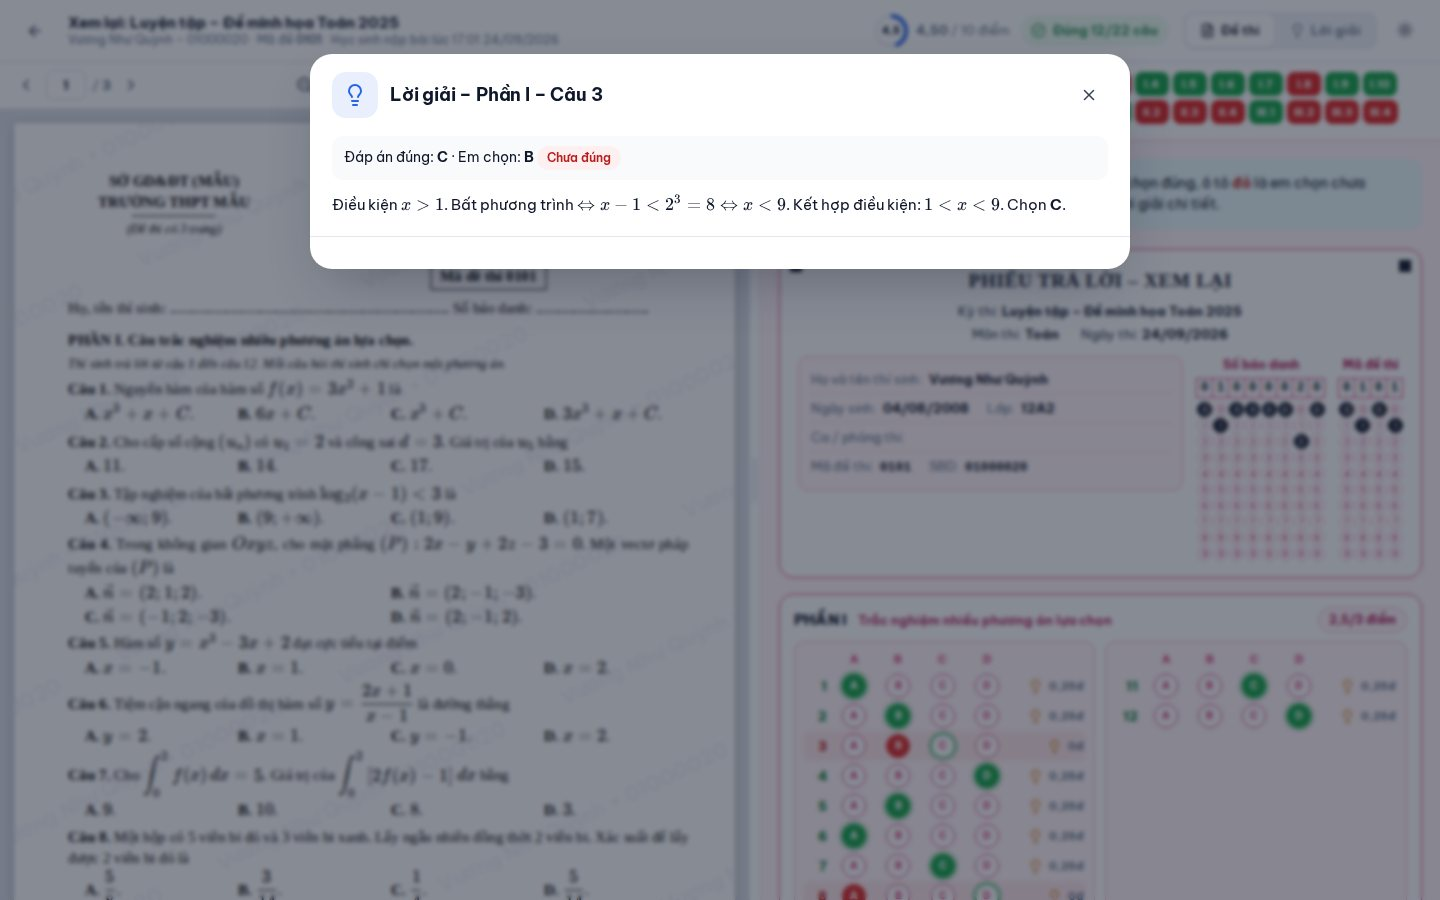
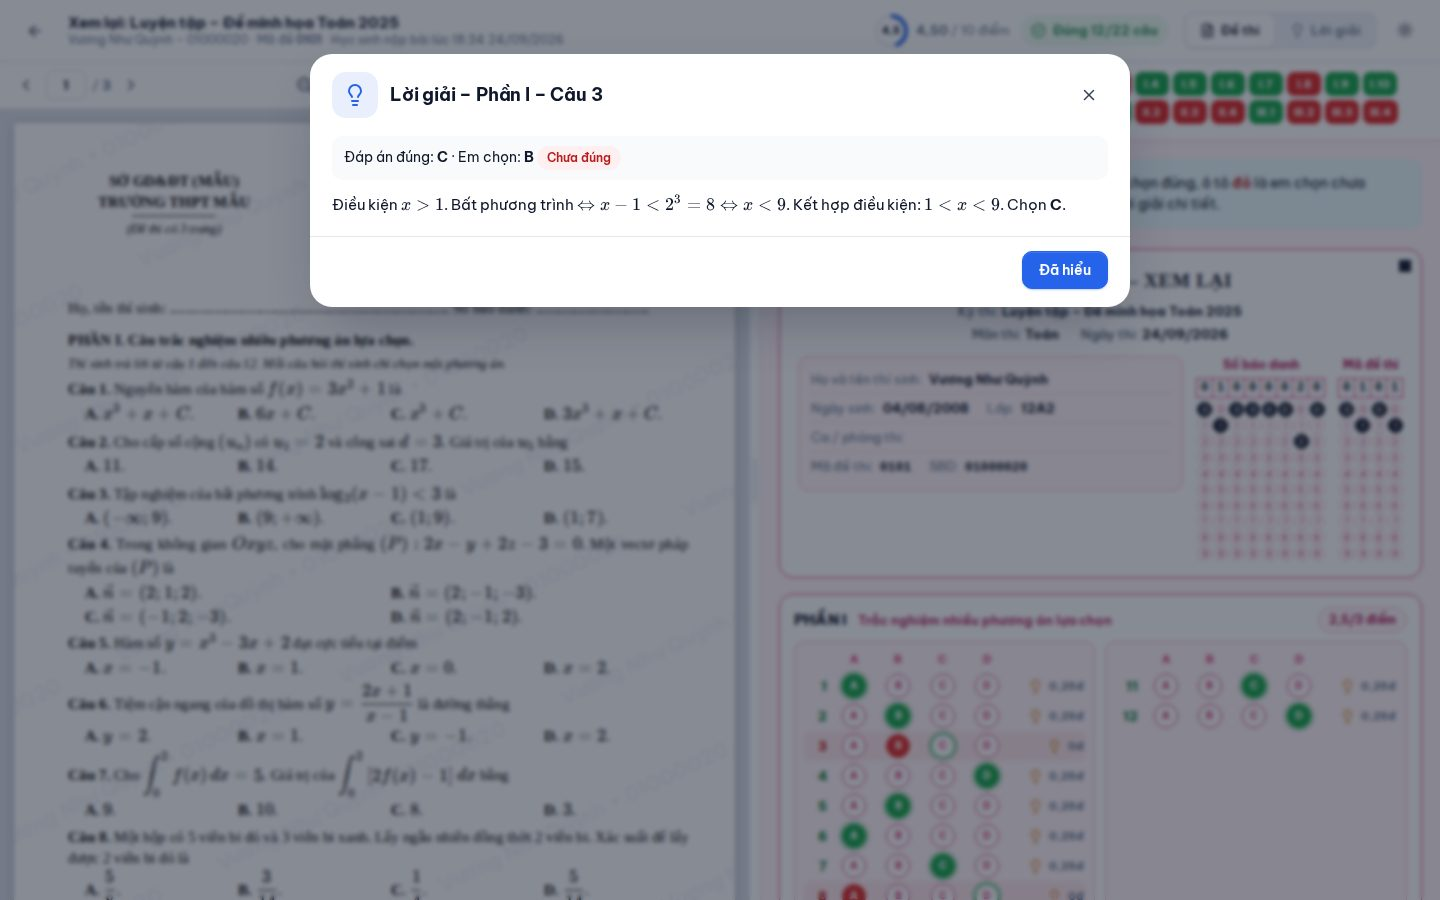
Hướng dẫn: mục riêng cho Phần II (đúng/sai) và Phần III (trả lời ngắn)
- Hướng dẫn sử dụng thêm 8.3 Phần II, 8.4 Phần III, 8.5 rà soát trước
  khi nộp: cách chọn / tô, gõ đáp số trực tiếp, bảng ví dụ cách tô,
  cảnh báo sai quy cách và cách sửa, cách tính điểm; cách đọc trang xem
  lại Phần II / III; giáo viên nhập đáp án Phần II / III trên phiếu (hủy
  ý, điểm riêng, nhiều đáp án); giao diện điện thoại
- 9 ảnh minh họa mới (26–34), chụp lại ảnh xem lại bài (nút "Đã hiểu")
- Trang xem lại: câu Phần III tô sai quy cách không còn hiện lặp hai lần
  cùng một cảnh báo

Claude-Session: https://claude.ai/code/session_01H6Zpit82RpkdLWLAgn9fiX

Changed region(s): [[0.2188, 0.28, 0.7812, 0.3422]]

diff --git a/assets/css/exam.css b/assets/css/exam.css
@@ -232,6 +232,8 @@
 .p3-key { width: 100%; height: 36px; border: 1.5px solid var(--s-line); border-radius: 9px; text-align: center; font: 800 16px var(--mono); background: var(--s-paper); color: var(--text); }
 .p3-key:focus { outline: none; border-color: var(--primary); box-shadow: var(--ring); }
 .p3-key-show { margin-top: 6px; font-size: 12px; text-align: center; }
+/* Xem lại: lý do sai quy cách đã ghi ở dòng "Đáp án: … · …" nên không nhắc lại */
+.sheet-review .p3-msg { display: none; }
 
 /* Tự luận */
 .es-q { border: 1px solid var(--s-line-soft); border-radius: 10px; padding: 10px 12px; background: var(--s-bg); margin-bottom: 10px; }

diff --git a/docs/HUONG-DAN-SU-DUNG.md b/docs/HUONG-DAN-SU-DUNG.md
@@ -13,6 +13,9 @@
 6. [Tạo ca thi](#6-tạo-ca-thi)
 7. [Giám sát trong giờ thi & xử lý sự cố](#7-giám-sát-trong-giờ-thi--xử-lý-sự-cố)
 8. [Dành cho học sinh: làm bài thi](#8-dành-cho-học-sinh-làm-bài-thi)
+   - [Phần II – Trắc nghiệm đúng / sai](#83-phần-ii--trắc-nghiệm-đúng--sai)
+   - [Phần III – Trắc nghiệm trả lời ngắn](#84-phần-iii--trắc-nghiệm-trả-lời-ngắn)
+   - [Trước khi nộp: rà soát Phần II & III](#85-trước-khi-nộp-rà-soát-phần-ii--iii)
 9. [Kết quả, chấm tự luận, in phiếu, xuất Excel](#9-kết-quả-chấm-tự-luận-in-phiếu-xuất-excel)
 10. [Thống kê & phân tích câu hỏi](#10-thống-kê--phân-tích-câu-hỏi)
 11. [Cài đặt hệ thống, thông báo](#11-cài-đặt-hệ-thống-thông-báo)
@@ -142,6 +145,17 @@ Tùy chọn chung: **làm tròn** (0,01 / 0,05 / 0,1 / 0,25 / 0,5 / 1), **không
 
 **Cách 1 – Soạn trực tiếp**: bấm **Đề & đáp án** ở mã đề → màn hình 2 cột (đề PDF | phiếu) → bấm ô tròn để chọn đáp án đúng. Biểu tượng ✏ ở mỗi câu để nhập **lời giải chi tiết, điểm riêng, mức độ, chủ đề, câu gốc** hoặc **hủy câu**. Nút **Nhập nhanh** cho phép gõ `ABCDBACDABCD` cho cả Phần I. Phím tắt `Ctrl + S` để lưu.
 
+Với **Phần II** và **Phần III** trên màn hình soạn đáp án:
+
+| Phần | Cách nhập đáp án trên phiếu | Trong ô ✏ của từng câu |
+|---|---|---|
+| **II** – đúng/sai | Bấm ô **Đúng** / **Sai** cho đủ 4 ý a–d (thiếu ý nào thì câu đó coi như chưa có đáp án) | Ô *Đáp án* gõ 4 ký tự `DSDD`; dấu `*` ở vị trí nào là **hủy ý** đó (vd `DS*D` – ý c tính đúng cho mọi em); *điểm riêng* của câu (bảng 0,1/0,25/0,5/1 được nhân theo tỉ lệ); hủy cả câu; mức độ, chủ đề, lời giải |
+| **III** – trả lời ngắn | Gõ đáp số vào ô của câu (`-1,5`, `0.17` tự đổi thành `0,17`); nhiều đáp án chấp nhận: `1,5\|1,50` | Điểm riêng, **hủy câu**, mức độ, chủ đề, lời giải |
+
+![Soạn đáp án Phần II](images/32-phan-2-nhap-dap-an.jpg)
+
+![Soạn đáp án Phần III](images/33-phan-3-nhap-dap-an.jpg)
+
 **Cách 2 – Excel** ([mẫu](samples/mau-dap-an-toan.xlsx)). Hệ thống tự nhận dạng 3 kiểu bảng:
 
 | Kiểu | Hình dạng | Ví dụ |
@@ -245,8 +259,8 @@ flowchart TD
 | Thao tác | Cách làm |
 |---|---|
 | Chọn đáp án Phần I | Bấm ô tròn A/B/C/D (bấm lại để bỏ). Bàn phím: `A` `B` `C` `D` hoặc `1`–`4`, `↑` `↓` chuyển câu |
-| Phần II | Mỗi ý a), b), c), d) chọn **Đúng** hoặc **Sai** |
-| Phần III | Tô từ trái sang phải: dấu `−` chỉ ở cột đầu, dấu phẩy ở cột 2 hoặc 3; hoặc **bấm vào dãy ô kết quả để gõ** (ví dụ `-1,5`). Tô sai quy cách sẽ có cảnh báo đỏ |
+| Phần II | Mỗi ý a), b), c), d) chọn **Đúng** hoặc **Sai** – chi tiết ở [mục 8.3](#83-phần-ii--trắc-nghiệm-đúng--sai) |
+| Phần III | Tô từ trái sang phải: dấu `−` chỉ ở cột đầu, dấu phẩy ở cột 2 hoặc 3; hoặc **bấm vào dãy ô kết quả để gõ** (ví dụ `-1,5`). Tô sai quy cách sẽ có cảnh báo đỏ – chi tiết ở [mục 8.4](#84-phần-iii--trắc-nghiệm-trả-lời-ngắn) |
 | Đánh dấu xem lại | Biểu tượng 🚩 hoặc phím `F`; lọc *Chưa làm* / 🚩 ở đầu phiếu |
 | Đổi độ rộng 2 cột | Kéo thanh chia giữa (phím `←` `→`), bấm đúp để về mặc định, nút `«` `»` để thu gọn |
 | Phóng to đề | `Ctrl` + lăn chuột trên đề, hoặc chọn tỉ lệ; nút 🌙 đọc nền tối |
@@ -259,7 +273,93 @@ Trên **điện thoại / máy tính bảng**, đề và phiếu chuyển thành
 
 ![Điện thoại](images/07-phong-thi-dien-thoai.jpg)
 
-### 8.3. Khi có sự cố – em cần nhớ
+### 8.3. Phần II – Trắc nghiệm đúng / sai
+
+![Phần II khi làm bài: câu 1 đủ 4 ý, câu 2 mới chọn 2 ý, câu 3 có đánh dấu, câu 4 chưa làm](images/26-phan-2-lam-bai.jpg)
+
+Mỗi câu gồm **4 ý a), b), c), d)**; mỗi ý có 2 ô **Đúng** và **Sai** – bố cục giống phiếu trả lời của Bộ.
+
+| Tính năng | Cách dùng / ý nghĩa |
+|---|---|
+| Chọn đáp án | Bấm ô *Đúng* hoặc *Sai* ở từng ý. Bấm ô còn lại để đổi; bấm lại ô đang chọn để **bỏ chọn**. Làm ý nào trước cũng được |
+| Lưu tự động | Mỗi lần bấm đều được lưu (góc trên hiện *Đã lưu*) |
+| Câu chưa đủ 4 ý | Có **dấu chấm cam** sau số câu (*Câu 2 ·* trong ảnh); ô **II.2** trên thanh số câu chuyển **màu cam** và được đếm vào bộ lọc *Chưa làm* |
+| Đánh dấu xem lại | Biểu tượng cờ ở góc câu (hoặc phím `F` khi đang chọn câu) – khung câu viền cam (*Câu 3* trong ảnh) |
+| Bộ đếm của phần | Góc phải tiêu đề: số câu đã làm / tổng số câu (vd `3/4`) |
+
+![Thanh số câu phía trên phiếu](images/28-thanh-so-cau.jpg)
+
+*Thanh số câu phía trên phiếu: xanh = đã làm, **cam** = câu đúng/sai chưa đủ 4 ý, gạch cam dưới ô = có đánh dấu, trắng = chưa làm. Bấm vào một ô để nhảy tới câu đó; nút* Chưa làm *và* 🚩 *để lọc.*
+
+**Cách tính điểm theo quy định 2025** – dựa trên **số ý đúng** trong mỗi câu:
+
+| Số ý đúng trong câu | 0 | 1 | 2 | 3 | 4 |
+|---|:---:|:---:|:---:|:---:|:---:|
+| Điểm | 0 | 0,1 | 0,25 | 0,5 | **1** |
+
+> **Ví dụ:** đáp án `ĐSĐĐ`; em chọn a) Đúng, b) Đúng, c) Đúng, d) bỏ trống → đúng ý a và c (2 ý) → **0,25 điểm**. Ý bỏ trống không bao giờ được tính đúng, vì vậy hãy chọn **đủ cả 4 ý**.
+
+Giáo viên có thể đổi cách tính Phần II (*theo từng ý* hoặc *chỉ cho điểm khi đúng cả 4 ý*), đặt điểm riêng cho một câu, hoặc **hủy một ý** – ý đó được tính đúng cho mọi thí sinh (xem [mục 4](#4-môn-thi--định-dạng-đề) và [mục 5.2](#52-nhập-đáp-án)).
+
+### 8.4. Phần III – Trắc nghiệm trả lời ngắn
+
+![Phần III khi làm bài: tô 4, −1,5, 0,17; câu 3 tô sai quy cách; câu 4 đang gõ trực tiếp](images/27-phan-3-lam-bai.jpg)
+
+Mỗi câu có **dãy 4 ô kết quả** (hiện đáp số đang tô) và **lưới ô tròn 4 cột** giống phiếu của Bộ:
+
+| Hàng ô tròn | Tô ở cột | Ý nghĩa |
+|---|---|---|
+| `−` | chỉ cột 1 | dấu âm |
+| `,` | cột 2 hoặc cột 3 | dấu phẩy thập phân |
+| `0` … `9` | cả 4 cột | chữ số |
+
+**Hai cách ghi đáp số:**
+
+1. **Tô ô tròn** – mỗi cột một ký tự, **tô từ trái sang phải**, các cột thừa bên phải để trống. Bấm lại ô đang tô để bỏ. Tô dấu phẩy ở cột khác thì dấu phẩy cũ tự bỏ (mỗi đáp số chỉ có một dấu phẩy).
+2. **Gõ trực tiếp** – bấm vào dãy ô kết quả (hoặc dùng `Tab` tới câu rồi gõ số) → hiện ô nhập (*Câu 4* trong ảnh) → gõ `-1,5`; gõ dấu chấm `.` cũng được, hệ thống tự đổi thành dấu phẩy → các ô tròn **tự tô theo**. Nhấn `Enter`, `Tab` hoặc bấm ra ngoài để xong. Ô nhập chỉ nhận chữ số, dấu `−`, dấu phẩy, tối đa 4 ký tự.
+
+**Ví dụ cách tô** (mỗi ô là một cột):
+
+| Đáp số | Cột 1 | Cột 2 | Cột 3 | Cột 4 |
+|---|:---:|:---:|:---:|:---:|
+| `4` | 4 | | | |
+| `12` | 1 | 2 | | |
+| `-2` | − | 2 | | |
+| `0,17` | 0 | , | 1 | 7 |
+| `-1,5` | − | 1 | , | 5 |
+| `2025` | 2 | 0 | 2 | 5 |
+| `0,5` (không tô `,5`) | 0 | , | 5 | |
+
+**Cảnh báo tô sai quy cách** – chữ đỏ hiện ngay dưới câu, dãy ô kết quả viền đỏ (*Câu 3* trong ảnh). Câu tô sai quy cách **không được tính điểm**, nên cần sửa trước khi nộp:
+
+| Thông báo | Nguyên nhân – cách sửa |
+|---|---|
+| Bỏ trống ô ở giữa – phải tô từ trái sang phải | Có cột trống xen giữa (vd tô `1`, bỏ trống, tô `5`) → dồn các ký tự sang trái |
+| Dấu "−" chỉ ở cột đầu tiên | Dấu âm đặt sau chữ số (khi gõ) → ghi dấu âm ở đầu |
+| Chỉ được tô một dấu phẩy | Có 2 dấu phẩy (khi gõ) → giữ một |
+| Dấu phẩy chỉ ở cột 2 hoặc 3 | Ví dụ gõ `,5` → ghi `0,5` |
+| Thiếu chữ số sau dấu phẩy | Ví dụ `5,` → bỏ dấu phẩy hoặc ghi thêm chữ số |
+| Chưa có chữ số | Mới tô dấu `−` hoặc dấu phẩy |
+
+**Cách tính điểm:** đúng đáp số mới có điểm – **Toán 0,5 điểm/câu**; Vật lí, Hóa học, Sinh học, Địa lí **0,25 điểm/câu**. Mặc định so sánh **theo giá trị số** nên `0,5` = `0,50` và `-2` = `-2,0`. Giáo viên có thể chuyển sang so sánh *đúng từng ký tự*, chấp nhận nhiều đáp án (`1,5|1,50`) hoặc hủy câu.
+
+Trên **điện thoại / máy tính bảng**, mỗi hàng hiện 1–2 câu cho dễ bấm; bấm vào dãy ô kết quả sẽ hiện **bàn phím số** để gõ đáp số:
+
+![Phần II và Phần III trên điện thoại](images/34-phan-2-3-dien-thoai.jpg)
+
+### 8.5. Trước khi nộp: rà soát Phần II & III
+
+![Hộp xác nhận nộp bài liệt kê câu chưa đủ 4 ý và câu tô sai quy cách](images/29-nop-bai-canh-bao.jpg)
+
+Bấm **Nộp bài**, hệ thống liệt kê riêng từng nhóm để em kiểm tra lần cuối:
+- **Câu chưa làm**;
+- **Câu đúng/sai chưa chọn đủ 4 ý** (Phần II);
+- **Câu trả lời ngắn tô chưa đúng quy cách** (Phần III – *sẽ không được tính điểm*);
+- **Câu đã đánh dấu** xem lại.
+
+Bấm vào số câu trong danh sách để quay lại sửa (*Làm tiếp*). Nếu ca thi bật *Xác nhận khi nộp bài* (mặc định), nút **Nộp bài** chỉ bấm được sau 3 giây đếm ngược để tránh bấm nhầm.
+
+### 8.6. Khi có sự cố – em cần nhớ
 - **Mất mạng**: cứ làm tiếp, bài lưu trên máy và tự gửi khi có mạng.
 - **Máy treo, mất điện**: báo giám thị, đăng nhập lại (ở máy khác nếu cần) → vào lại bài thi → bài vẫn còn.
 - **Hiện hộp đăng nhập lại**: nhập mật khẩu là làm tiếp – bài làm vẫn còn nguyên, nhưng **đồng hồ vẫn chạy** trong lúc đăng nhập nên hãy nhập nhanh.
@@ -268,12 +368,20 @@ Trên **điện thoại / máy tính bảng**, đề và phiếu chuyển thành
 
 ![Mất mạng](images/12b-mat-mang.jpg)
 
-### 8.4. Sau khi nộp
+### 8.7. Sau khi nộp
 - Trang **Kết quả**: điểm, xếp loại, điểm từng phần, số câu đúng (nếu ca thi cho xem).
 - **Xem lại bài**: đề bên trái, phiếu bên phải tô **xanh** (đúng) / **đỏ** (sai), viền xanh là đáp án đúng, bấm 💡 để xem **lời giải chi tiết**.
 - **Luyện tập**: làm lại nhiều lần, hệ thống lưu điểm cao nhất; **Kết quả & lịch sử** lưu toàn bộ bài đã làm.
 
 ![Xem lại bài](images/10-xem-lai.jpg)
+
+**Xem lại Phần II** – từng ý được chấm riêng: chữ a), b), c), d) **xanh** là ý đúng, **đỏ** là ý sai hoặc bỏ trống; ô có **viền xanh** là đáp án; ô em chọn tô **xanh** (đúng) hoặc **đỏ** (sai). Góc mỗi câu ghi *số ý đúng · điểm* (vd `2/4 ý · 0,25đ`), góc phần ghi tổng điểm Phần II.
+
+![Xem lại Phần II](images/30-phan-2-xem-lai.jpg)
+
+**Xem lại Phần III** – khung câu **xanh** (đúng) / **đỏ** (sai), các ô em tô cũng đổi màu theo; dưới mỗi câu ghi **Đáp án** (nhiều đáp án chấp nhận thì hiện *… hoặc …*), kèm lý do nếu tô sai quy cách hoặc *Chưa trả lời*.
+
+![Xem lại Phần III](images/31-phan-3-xem-lai.jpg)
 
 ---
 

diff --git a/CHANGELOG.md b/CHANGELOG.md
@@ -10,6 +10,14 @@ Số phiên bản có dạng `MAJOR.MINOR.PATCH` và nằm trong tệp [`VERSION
 
 ---
 
+## 1.0.7 – 24/09/2026
+
+### Tài liệu
+- Hướng dẫn sử dụng: thêm mục riêng cho **Phần II – đúng/sai** và **Phần III – trả lời ngắn** trên phiếu: cách chọn / tô, gõ đáp số trực tiếp, bảng ví dụ cách tô, các cảnh báo sai quy cách và cách sửa, cách tính điểm, rà soát trước khi nộp, cách đọc trang xem lại, giáo viên nhập đáp án Phần II / III (hủy ý, điểm riêng, nhiều đáp án), giao diện điện thoại – kèm 9 ảnh minh họa mới.
+
+### Sửa lỗi giao diện
+- Trang xem lại bài: câu Phần III tô sai quy cách không còn hiện **lặp hai lần** cùng một cảnh báo (lý do chỉ ghi ở dòng *Đáp án*).
+
 ## 1.0.6 – 24/09/2026
 
 ### Sửa lỗi
